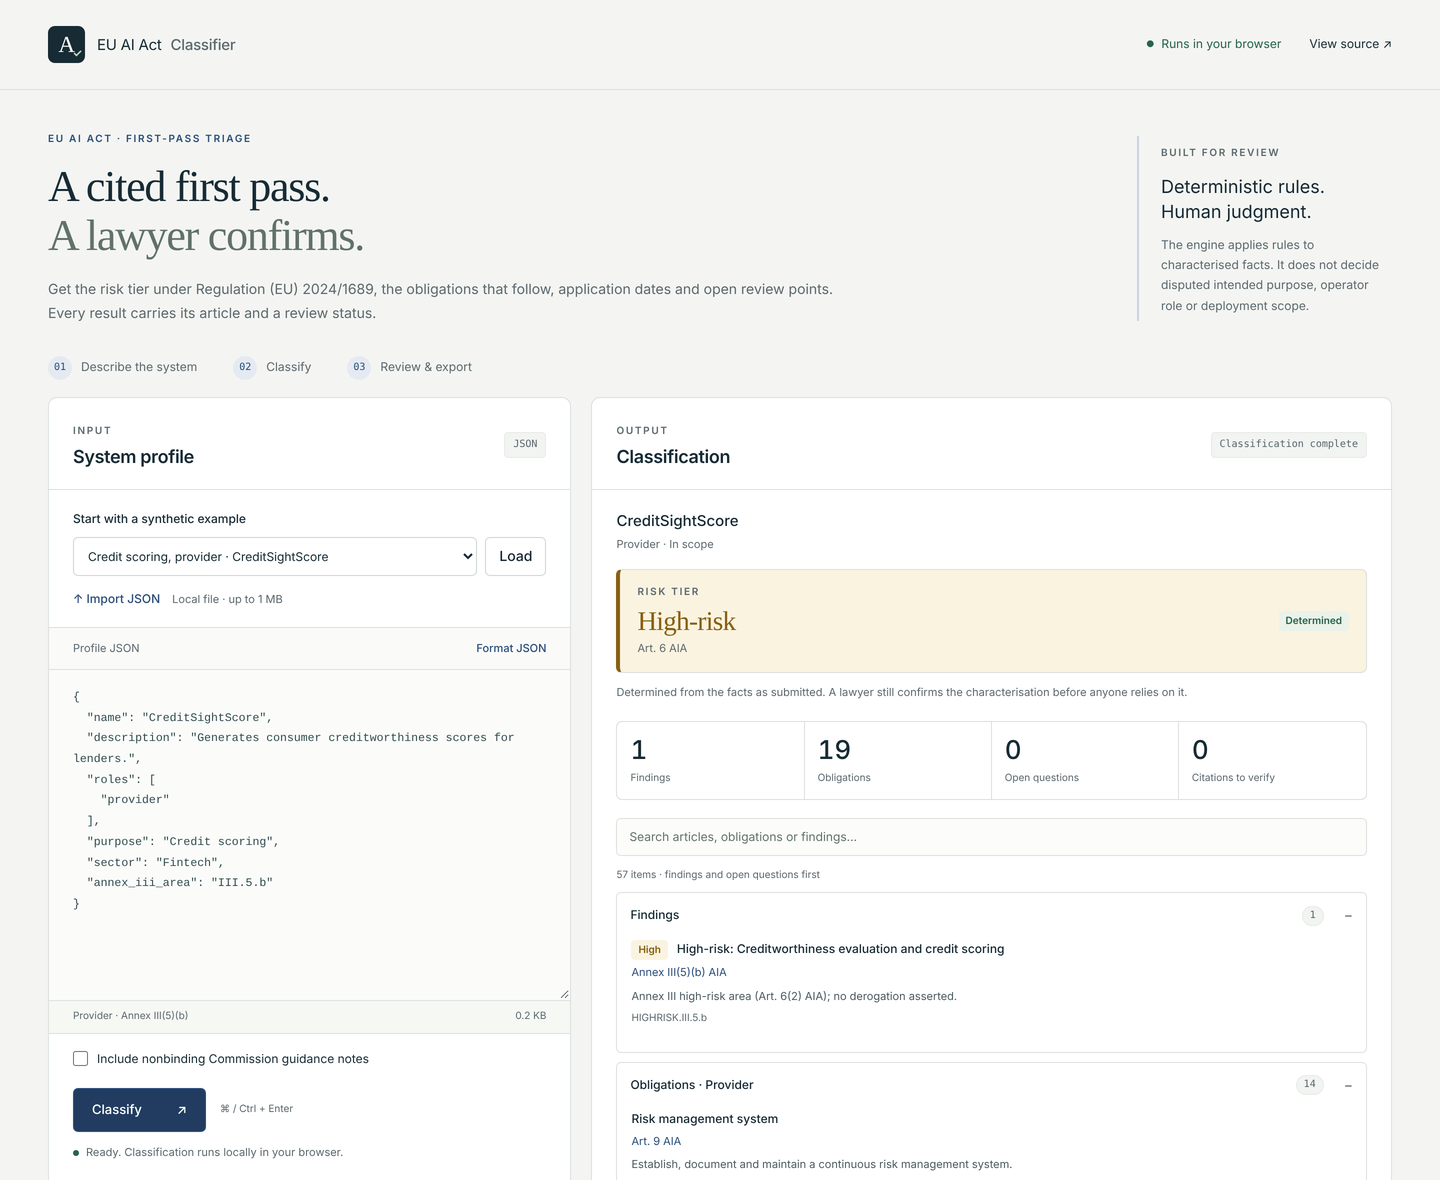
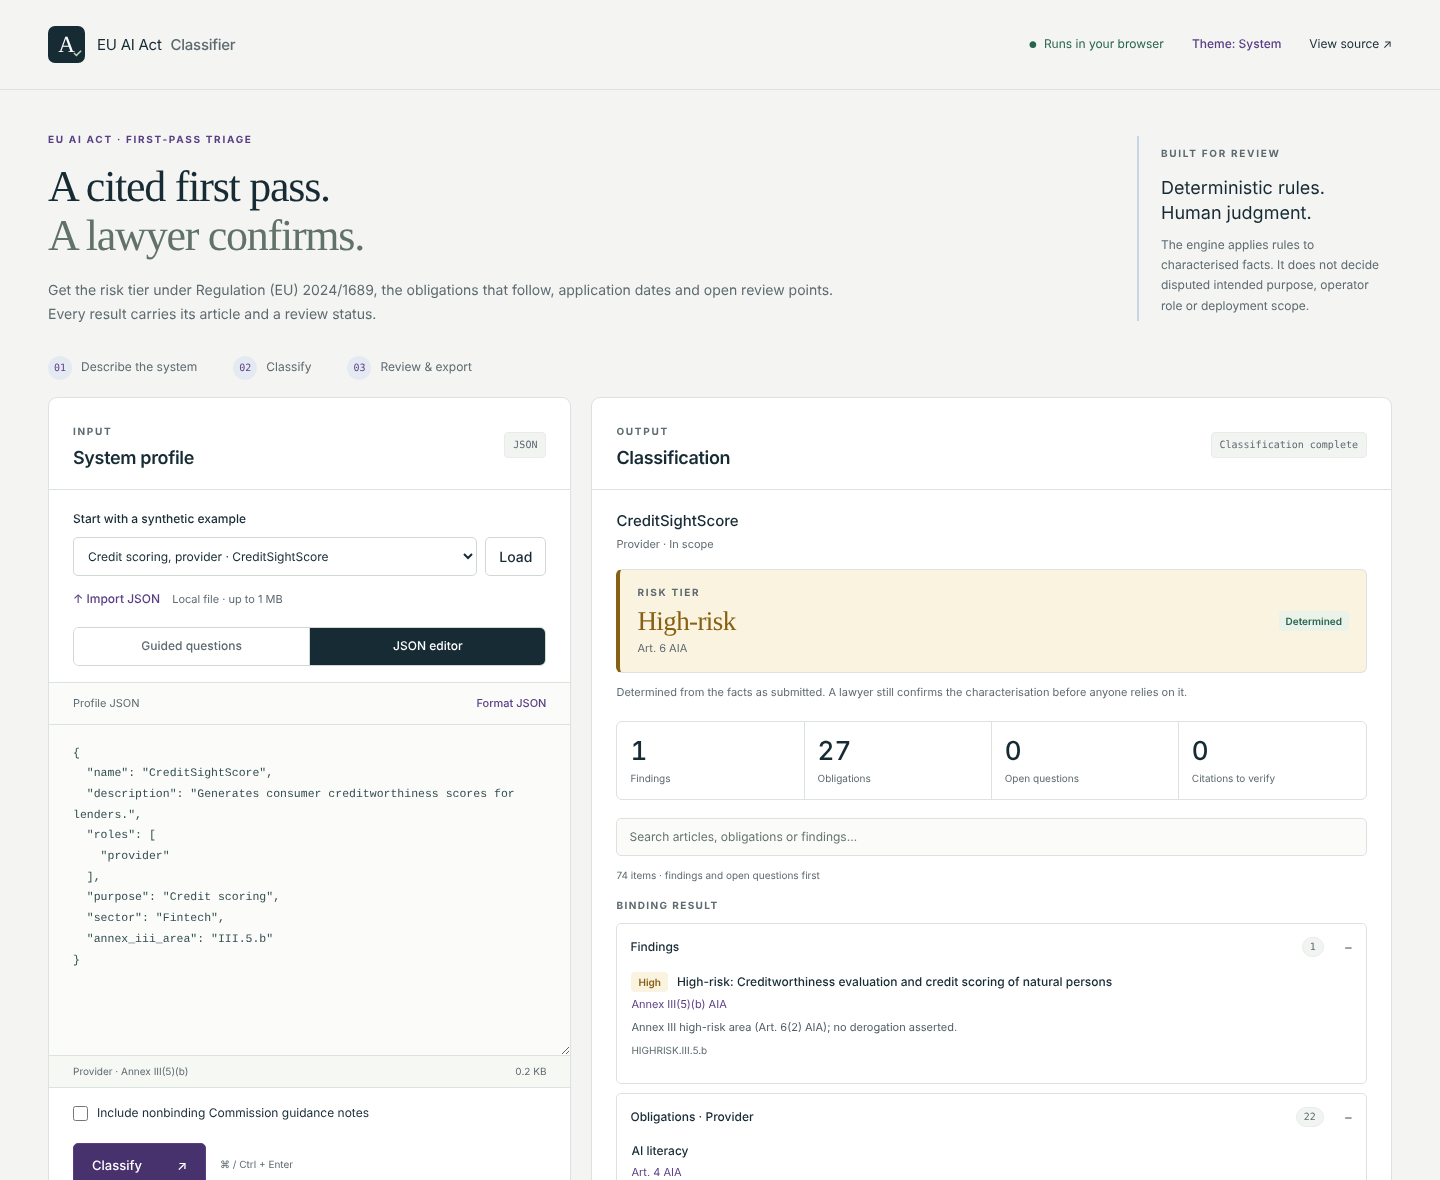
docs: recapture the playground screenshot and bring the plan up to date (#82)
- docs/playground.png is recaptured from the current playground (1440 x 1180, JSON editor, CreditSightScore classified), with alt texts that say what it shows.
- The adaptation plan marks H4 dark mode and H5 share link as built, owner decision 3 (the Art. 50(2) date) as resolved and decision 4 and H7 as resolved or built in part, with Art. 6(1c) and the coverage-map gaps open; the H5 row gives the measured share-link lengths, 163 to 418 characters, and S6 no longer names a Playwright test the repository lacks.
- The ADR index lists ADR 0005 as Accepted; the D3 status and the design teardown record the brand-link axe finding as fixed with D1. axe reports no violation on the classified playground in either scheme at 1280 and 375 px.

Claude-Session: https://claude.ai/code/session_018Qjz5ezecBpMCgouLDmF6c

diff --git a/docs/research/adaptation-plan.md b/docs/research/adaptation-plan.md
@@ -41,7 +41,7 @@ Impact 1 to 5 on the counsel, reviewer or legal-engineer job. Fit names the non-
 | 7 | Source text content hash for `--verify-sources` (Q9) | Lexbeam manifest | 3 | pass if hashes are recorded, never auto-updated, rule 8 | M | Observed | D |
 | 8 | Print stylesheet PDF, then DOCX (H3) | Attestor, EuConform PDFs; npm `docx`; python-docx | 3 | pass if `DRAFT_NOTICE` in flow and DOCX optional, rules 3 and 7 | M | Observed | T |
 | 9 | Dark mode on both surfaces (H4b) | EuConform, DanielHuette | 2 | pass | M | Observed | T |
-| 10 | Art. 5(1)(ba)/(bb), 5(1a)/(1b), Art. 4 screens (H7) | Lexbeam, Attestor | 4 | **park**: EUR-Lex not reachable, rule 8. Update 2026-10-31: the Art. 5(1)(ba)/(bb) screens (codes `5.1.ba`, `5.1.bb`, with the Art. 5(1a)/(1b) text quoted in the finding) are encoded since PR #30 (merged 22 October 2026), and the Art. 4 AI literacy duty is encoded for every provider and deployer (claim ledger; checked in the Official Journal text on 2026-11-14). Update 2026-11-15: #66 tests points (ba) and (bb) element by element. Update 2026-11-16: **unparked, built**. The wording was checked in the Official Journal texts pinned in `sources/` (confirmed identical to EUR-Lex on 2026-11-10) instead of on EUR-Lex; #63 asks a generator that declares neither point, and its question now quotes Art. 5(1a) and (1b) | M | Observed | T |
+| 10 | Art. 5(1)(ba)/(bb), 5(1a)/(1b), Art. 4 screens (H7) | Lexbeam, Attestor | 4 | **built in part** (unparked 2026-11-16; Art. 6(1c) and the gaps `docs/omnibus-coverage.md` lists stay open); originally parked: EUR-Lex not reachable, rule 8. Update 2026-10-31: the Art. 5(1)(ba)/(bb) screens (codes `5.1.ba`, `5.1.bb`, with the Art. 5(1a)/(1b) text quoted in the finding) are encoded since PR #30 (merged 22 October 2026), and the Art. 4 AI literacy duty is encoded for every provider and deployer (claim ledger; checked in the Official Journal text on 2026-11-14). Update 2026-11-15: #66 tests points (ba) and (bb) element by element. Update 2026-11-16: unparked; the screens named here are built. The wording was checked in the Official Journal texts pinned in `sources/` (confirmed identical to EUR-Lex on 2026-11-10) instead of on EUR-Lex; #63 asks a generator that declares neither point, and its question now quotes Art. 5(1a) and (1b) | M | Observed | T |
 | 11 | GitHub Action and SARIF | Systima, legalithm | 2 | pass | S | Observed | T |
 | 12 | Free-text or document intake drafting a profile | Luxgap, legalithm, Lexbeam | 2 | **fail** in the core, rule 3; optional only if a human confirms each field | L | Claimed | n/a |
 | 13 | Readiness or compliance score | AbdelStark, EuConform, Aguardic | 1 | **fail**, rules 1 and 5: a score implies compliance | S | Observed | n/a |
@@ -76,10 +76,10 @@ Hypothesis tested: the only free, offline, deterministic classifier whose citati
 | H1 Guided questionnaire | **Confirmed, built.** Modified: three unknown policies (null routed to review, `III.unsure`, block); `significant_change_after_application_date` is asked only where the engine reads it and records null on "I don't know" (owner decision 1), and `deployer_public_authority` is asked only of a deployer on a high-risk route (item 9; update 2026-11-16: only where it changes the result, and "I don't know" writes null) | GOV.UK (Observed); peers' unknown handling (Observed); checks in `tests/test_intake.py` |
 | H2 Label catalog EN/DE | **Confirmed; EN built.** DE parked: German legal terms cannot be checked against the DE Official Journal text from this environment | EuConform, AbdelStark DE terms (Observed); IATE and EUR-Lex not reachable |
 | H3 DOCX/PDF export | **Modified; PDF built, checked in Chromium only.** Print stylesheet first (no dependency), built; DOCX as an optional Python extra, specified; the cockpit label reads "Draft package" until real DOCX exists (the `wordExportPackage` field keeps its name) | No peer keeps draft status (Observed); `@page` margin boxes Chrome only (Observed) |
-| H4 Cockpit styling, then dark mode | **Styling confirmed and built** without Tailwind ([ADR 0004](../adr/0004-cockpit-styling-without-tailwind.md)). Dark mode specified, not built | Baseline captures |
-| H5 Shareable URL hash | **Confirmed, specified.** Native `deflate-raw` plus base64url, written only on "Create share link"; no dependency | Svelte, TypeScript playground (Observed); 160 to 316 characters per example (Observed) |
+| H4 Cockpit styling, then dark mode | **Styling confirmed and built** without Tailwind ([ADR 0004](../adr/0004-cockpit-styling-without-tailwind.md)). Dark mode built on both surfaces (D1, #72) | Baseline captures |
+| H5 Shareable URL hash | **Confirmed and built** (S6). Native `deflate-raw` plus base64url, written only on "Create share link"; no dependency | Svelte, TypeScript playground (Observed); 163 to 418 characters per example (measured 19 November 2026; 160 to 316 when specified) |
 | H6 Evidence tracker | **Confirmed, specified.** Minimal state, owner and reviewed-on date on the cockpit side only | OpenComplAI, ComplianceLint (Observed) |
-| H7 Legal coverage gaps | **Parked.** Every change needs the EUR-Lex check this run could not make. Update 2026-11-16: unparked and built (Art. 5(1)(ba)/(bb) and (1a)/(1b) by #30, #63 and #66, Art. 4 by #55), checked in the Official Journal texts pinned in `sources/`; the Art. 6(1c) fact and the gaps `docs/omnibus-coverage.md` lists stay open | Network |
+| H7 Legal coverage gaps | **Built in part** (since 16 November 2026). Originally parked: every change needed the EUR-Lex check this run could not make. Update 2026-11-16: unparked and built (Art. 5(1)(ba)/(bb) and (1a)/(1b) by #30, #63 and #66, Art. 4 by #55), checked in the Official Journal texts pinned in `sources/`; the Art. 6(1c) fact and the gaps `docs/omnibus-coverage.md` lists stay open | Network |
 | H8 Annex III synthetic benchmark | **Confirmed, specified.** Report tier and disposition separately per source; never count an unresolved result as agreement | DanielHuette `showcase.py` (Observed) |
 
 ## Specs
@@ -132,7 +132,7 @@ Hypothesis tested: the only free, offline, deterministic classifier whose citati
 - **Different.** Only on "Create share link": compact profile, `deflate-raw` via `CompressionStream`, base64url, prefix `#p1.`; plain base64url fallback (`#j1.`); refuse above 8,000 characters and offer download; validate before loading; never auto-classify; warn that history sync and chat services keep links. No dependency. [ADR 0005](../adr/0005-url-state-encoding.md).
 - **Acceptance.** All bundled examples encode below 450 characters (400 until 16 November 2026, when `life_insurer_pricing` went from 393 to 418 by stating `deployer_public_authority`) and decode to the same compact profile; a corrupted or oversized hash shows an error summary and loads nothing; the hash is written only by the button; no network request carries the profile.
 - **Files.** `docs/playground/share.mjs` (pure encode and decode), `docs/playground/app.mjs`, `docs/playground/index.html`, `docs/playground/styles.css`.
-- **Tests.** `tests/playground/share.test.mjs`: round trip for every example, version prefix, size cap, invalid input; Playwright check that loading a share link does not classify automatically.
+- **Tests.** `tests/playground/share.test.mjs`: round trip for every example, version prefix, size cap, invalid input. That loading a share link does not classify automatically was checked in the browser when S6 was built; no Playwright test in the repository pins it.
 - **Risk.** Privacy: links persist in history and chat logs, so the warning is required and the feature stays opt-in. Rule 9: no server, no build step.
 
 ### S7. Source content hash (partly built)
@@ -187,7 +187,7 @@ D1 to D5 are built.
 - **Acceptance.** Every date shown is one the report already carries; the text list states the same content; axe clean.
 - **Files.** `docs/playground/app.mjs`, `docs/playground/styles.css`.
 - **Risk.** Rule 4 and 8: no date is computed in the browser; the view only displays report data.
-- **Status.** Built. `docs/playground/timeline.mjs` arranges the report's own dates and renders the view: one column per date from `timeline` and the graph's `application_date`, in date order (ISO strings sort as text), a "Date open" column for items without a date, a "see the date note" marker where an item carries an `application_date_note`, and the engine's `applies_on_assessment_date` in words. The note can record, for example, a contested Art. 113 reading, an Art. 111 condition, a scope question (Art. 2(2) for a Section B product, Art. 4 for a prohibited system), a missing input the date depends on (a general-purpose AI model's own placing date) or an explanation of the date, so the marker only points to it; the obligation graph section shows the note and the assessment answer for every item, also during a search, which hides the timeline. The view is an ordered list, so a screen reader reads it as text. `tests/playground/timeline.test.mjs` runs the engine on every bundled example and checks the model and the rendered view, column by column (each date with its own milestones and items, their article, actor, marker and answer), a synthetic report with an open date and both assessment answers, and that no playground module other than `intake.mjs` (which validates dates the user types) builds, parses or formats a date. Checked in Chromium with axe at 1280 and 375 px: no violation in the timeline; the page keeps one existing finding, `label-content-name-mismatch` on the header brand link (WCAG 2.1 A tag), which this change does not touch.
+- **Status.** Built. `docs/playground/timeline.mjs` arranges the report's own dates and renders the view: one column per date from `timeline` and the graph's `application_date`, in date order (ISO strings sort as text), a "Date open" column for items without a date, a "see the date note" marker where an item carries an `application_date_note`, and the engine's `applies_on_assessment_date` in words. The note can record, for example, a contested Art. 113 reading, an Art. 111 condition, a scope question (Art. 2(2) for a Section B product, Art. 4 for a prohibited system), a missing input the date depends on (a general-purpose AI model's own placing date) or an explanation of the date, so the marker only points to it; the obligation graph section shows the note and the assessment answer for every item, also during a search, which hides the timeline. The view is an ordered list, so a screen reader reads it as text. `tests/playground/timeline.test.mjs` runs the engine on every bundled example and checks the model and the rendered view, column by column (each date with its own milestones and items, their article, actor, marker and answer), a synthetic report with an open date and both assessment answers, and that no playground module other than `intake.mjs` (which validates dates the user types) builds, parses or formats a date. Checked in Chromium with axe at 1280 and 375 px: no violation in the timeline; the page keeps one existing finding, `label-content-name-mismatch` on the header brand link (WCAG 2.1 A tag), which this change does not touch. Update 2026-11-19: the brand link's label was fixed with D1; axe reports no violation on the classified playground in either scheme at 1280 and 375 px.
 
 ### D4. Binding result apart from the advisory overlay (built)
 
@@ -229,8 +229,8 @@ D1 to D5 are built.
 
 1. **Unknown on `significant_change_after_application_date`.** Resolved (owner decision, 28 October 2026): the intake asks the question only for a high-risk system with a date before its Chapter III date, where a null value already raises the engine's Art. 111(2) open question, so "I don't know" records null and the run proceeds to review. Elsewhere the engine reports a given answer as not used, and the bundled examples, which give no date, no longer open with the question unanswered.
 2. **Nullable screens.** Most screens are non-nullable booleans, so the intake blocks on "I don't know". Making more fields nullable with engine-side review questions would let more runs proceed ([ADR 0007](../adr/0007-systemprofile-change-proposals.md)).
-3. **Art. 50(2) grace period.** Secondary sources disagree (2 December 2026 versus 2 December 2027, both Claimed). The engine and ledger use 2026-12-02; please re-check against the consolidated text. Nothing was changed. Update 2026-10-31: checked in the Publications Office snapshot of the OJ text on `feat/source-snapshots`: Art. 111(4) AIA reads "by 2 December 2026" and recital (38) calls it a transitional period of four months. 2026-12-02 stands.
-4. **Art. 5(1)(ba)/(bb), Art. 5(1a)/(1b) and Art. 4 screens (H7).** Parked until the wording can be checked on EUR-Lex; each needs a `PENDING` ledger row and a test. Update 2026-10-31: the Art. 5(1)(ba)/(bb) screens are encoded since PR #30 (merged 22 October 2026; codes `5.1.ba` and `5.1.bb`, `CORRECTED` ledger row, `tests/test_prohibited.py`), with Art. 5(1a)/(1b) quoted in the finding; the Art. 4 AI literacy duty is encoded for every provider and deployer, with a ledger row (`VERIFIED` since 2026-11-14) and `tests/test_ai_literacy.py`; the Section B and prohibited readings are `PENDING` rows. Update 2026-11-15: #66 tests points (ba) and (bb) element by element (profile fields `intimate_imagery` and `child_sexual_abuse_material`, decided on the profile's `assessment_date`). See [docs/omnibus-coverage.md](../omnibus-coverage.md) for every amending point. Update 2026-11-16: unparked. The wording was checked in the Official Journal texts pinned in `sources/` (confirmed identical to EUR-Lex on 2026-11-10) instead of on EUR-Lex. #63 asks a generator that declares neither point (`LATER_SCREEN_QUESTION`), and the question now quotes Art. 5(1a) and (1b); the claim ledger's "in part" row records it. Still open: Art. 6(1c) has no profile field, and the gaps the coverage map lists are not encoded.
+3. **Art. 50(2) grace period.** Resolved (19 November 2026): Art. 111(4) AIA reads "by 2 December 2026" in the Official Journal text pinned in `sources/` and in the pinned consolidated text (`sources/consolidated/02024R1689-20260727.en.xhtml`, marked ▼M1), so 2026-12-02 stands. Originally: secondary sources disagreed (2 December 2026 versus 2 December 2027, both Claimed); the engine and ledger used 2026-12-02 and the owner was asked to re-check against the consolidated text, which the pinned text now answers. Nothing was changed. Update 2026-10-31: checked in the Publications Office snapshot of the OJ text on `feat/source-snapshots`: Art. 111(4) AIA reads "by 2 December 2026" and recital (38) calls it a transitional period of four months. 2026-12-02 stands.
+4. **Art. 5(1)(ba)/(bb), Art. 5(1a)/(1b) and Art. 4 screens (H7).** Resolved in part (19 November 2026): the screens are built and checked in the Official Journal texts (see the updates below); Art. 6(1c) and the gaps in the coverage map stay open. Originally parked until the wording can be checked on EUR-Lex; each needs a `PENDING` ledger row and a test. Update 2026-10-31: the Art. 5(1)(ba)/(bb) screens are encoded since PR #30 (merged 22 October 2026; codes `5.1.ba` and `5.1.bb`, `CORRECTED` ledger row, `tests/test_prohibited.py`), with Art. 5(1a)/(1b) quoted in the finding; the Art. 4 AI literacy duty is encoded for every provider and deployer, with a ledger row (`VERIFIED` since 2026-11-14) and `tests/test_ai_literacy.py`; the Section B and prohibited readings are `PENDING` rows. Update 2026-11-15: #66 tests points (ba) and (bb) element by element (profile fields `intimate_imagery` and `child_sexual_abuse_material`, decided on the profile's `assessment_date`). See [docs/omnibus-coverage.md](../omnibus-coverage.md) for every amending point. Update 2026-11-16: unparked. The wording was checked in the Official Journal texts pinned in `sources/` (confirmed identical to EUR-Lex on 2026-11-10) instead of on EUR-Lex. #63 asks a generator that declares neither point (`LATER_SCREEN_QUESTION`), and the question now quotes Art. 5(1a) and (1b); the claim ledger's "in part" row records it. Still open: Art. 6(1c) has no profile field, and the gaps the coverage map lists are not encoded.
 5. **German labels.** Proposed terms (Anbieter, Betreiber, Hochrisiko-KI-System) match what two peers use (Observed) but were not checked against the DE Official Journal text.
 6. **Positioning wording** for the overview (see above).
 7. **Token convergence** between playground and cockpit.

diff --git a/docs/overview.md b/docs/overview.md
@@ -19,7 +19,7 @@ Built on Regulation (EU) 2024/1689 as consolidated on 27 July 2026. From the ame
 
 **[Open the live playground](https://sebastianfoerste.github.io/eu-ai-act-classifier/)**: no install, and nothing you paste leaves the page. The playground runs the same engine as the CLI.
 
-[![Live playground: the synthetic CreditSightScore credit scoring profile classified high-risk under Art. 6 AIA, with its Annex III(5)(b) finding and the cited provider obligations from Article 9 onwards; captured before the Art. 4 AI literacy item was added, which the live playground now lists first](playground.png)](https://sebastianfoerste.github.io/eu-ai-act-classifier/playground/)
+[![Live playground: the synthetic CreditSightScore credit scoring profile classified high-risk under Art. 6 AIA, with its Annex III(5)(b) finding under Binding result and 27 obligation entries; the provider obligations open with the Art. 4 AI literacy item](playground.png)](https://sebastianfoerste.github.io/eu-ai-act-classifier/playground/)
 
 > **If you don't code:** open the [playground](https://sebastianfoerste.github.io/eu-ai-act-classifier/) and pick one of the 19 synthetic examples, or see [Example output](sample-output.md#example-output). The point isn't the code; it's whether the legal work is structured, cited, reviewable, and testable.
 

diff --git a/docs/adr/README.md b/docs/adr/README.md
@@ -8,6 +8,6 @@ Each record states a decision, its context and its consequences. Status is Accep
 | [0002](0002-labels-and-i18n.md) | One generated label catalog; English first, German after review | Accepted (EN) |
 | [0003](0003-export-route.md) | Print stylesheet PDF, DOCX only as an optional extra | Accepted (PDF and label); DOCX proposed |
 | [0004](0004-cockpit-styling-without-tailwind.md) | Cockpit pages use plain CSS classes, not Tailwind | Accepted |
-| [0005](0005-url-state-encoding.md) | Share links encode the profile in the URL hash with native compression | Proposed |
+| [0005](0005-url-state-encoding.md) | Share links encode the profile in the URL hash with native compression | Accepted |
 | [0006](0006-evidence-model.md) | Evidence state lives in the cockpit workspace, not in the report | Proposed |
 | [0007](0007-systemprofile-change-proposals.md) | SystemProfile changes that would let fewer intake runs block | Proposed |

diff --git a/docs/research/design-teardown.md b/docs/research/design-teardown.md
@@ -215,7 +215,7 @@ exit 0 (1 if prohibited or requires_review)
 
 ### Accessibility and i18n
 
-All new wizard pages pass axe with WCAG 2.2 AA tags at 1280 and 375 px; the only finding is the pre-existing `label-content-name-mismatch` on the brand link (Observed, measured). Focus moves to the question heading on each page and to the error summary on a validation error. `lang="en"` throughout; German labels wait for review of their terms (H2).
+All new wizard pages pass axe with WCAG 2.2 AA tags at 1280 and 375 px; the only finding is the pre-existing `label-content-name-mismatch` on the brand link (Observed, measured). Update 2026-11-19: fixed with D1 (dark mode); axe now reports no violation. Focus moves to the question heading on each page and to the error summary on a validation error. `lang="en"` throughout; German labels wait for review of their terms (H2).
 
 ```text
 Focus order on a question page (both widths)

diff --git a/CHANGELOG.md b/CHANGELOG.md
@@ -5,6 +5,20 @@ pull requests.
 
 ## Unreleased
 
+### Documentation upkeep
+
+#### Changed
+
+- `docs/playground.png` is recaptured from the current playground (theme
+  button, Binding result heading, the Art. 4 AI literacy item first), and its
+  alt texts in `docs/overview.md` and `docs/surfaces.md` say what it shows.
+- The adaptation plan marks H4 (dark mode) and H5 (share link) as built,
+  owner decision 3 (the Art. 50(2) date) as resolved and decision 4 (the H7
+  screens) as resolved in part; Art. 6(1c) and the coverage-map gaps stay
+  open. The ADR index lists ADR 0005 as Accepted, as the record itself says.
+  axe (WCAG 2.2 AA and best-practice rules, 19 November 2026) reports no
+  violation on the classified playground in either scheme at 1280 and 375 px.
+
 ### Annex III question in two steps (D5)
 
 #### Changed

diff --git a/docs/surfaces.md b/docs/surfaces.md
@@ -42,7 +42,7 @@ The page installs a wheel of this package, so it applies the same rules as the C
 uv run python scripts/build_playground.py
 ```
 
-[![Browser playground: CreditSightScore classified high-risk under Art. 6 AIA, with the cited provider obligations from Article 9 onwards; captured before the Art. 4 AI literacy item was added, which the live playground now lists first](playground.png)](https://sebastianfoerste.github.io/eu-ai-act-classifier/playground/)
+[![Browser playground in the JSON editor: CreditSightScore classified high-risk under Art. 6 AIA, with its Annex III(5)(b) finding under Binding result and 27 obligation entries; the provider obligations open with the Art. 4 AI literacy item](playground.png)](https://sebastianfoerste.github.io/eu-ai-act-classifier/playground/)
 
 ## MCP and local API
 
